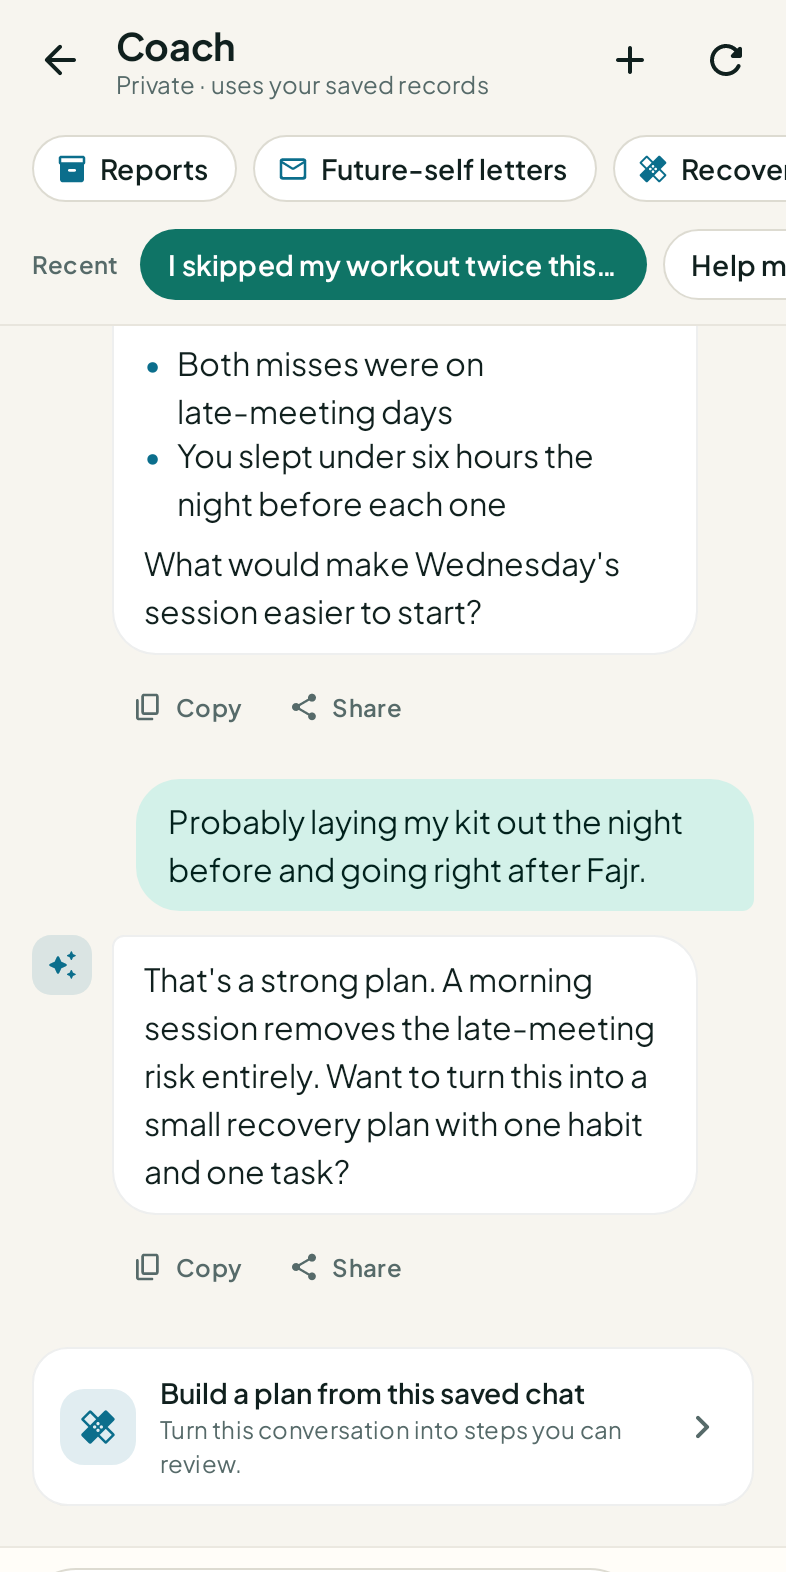
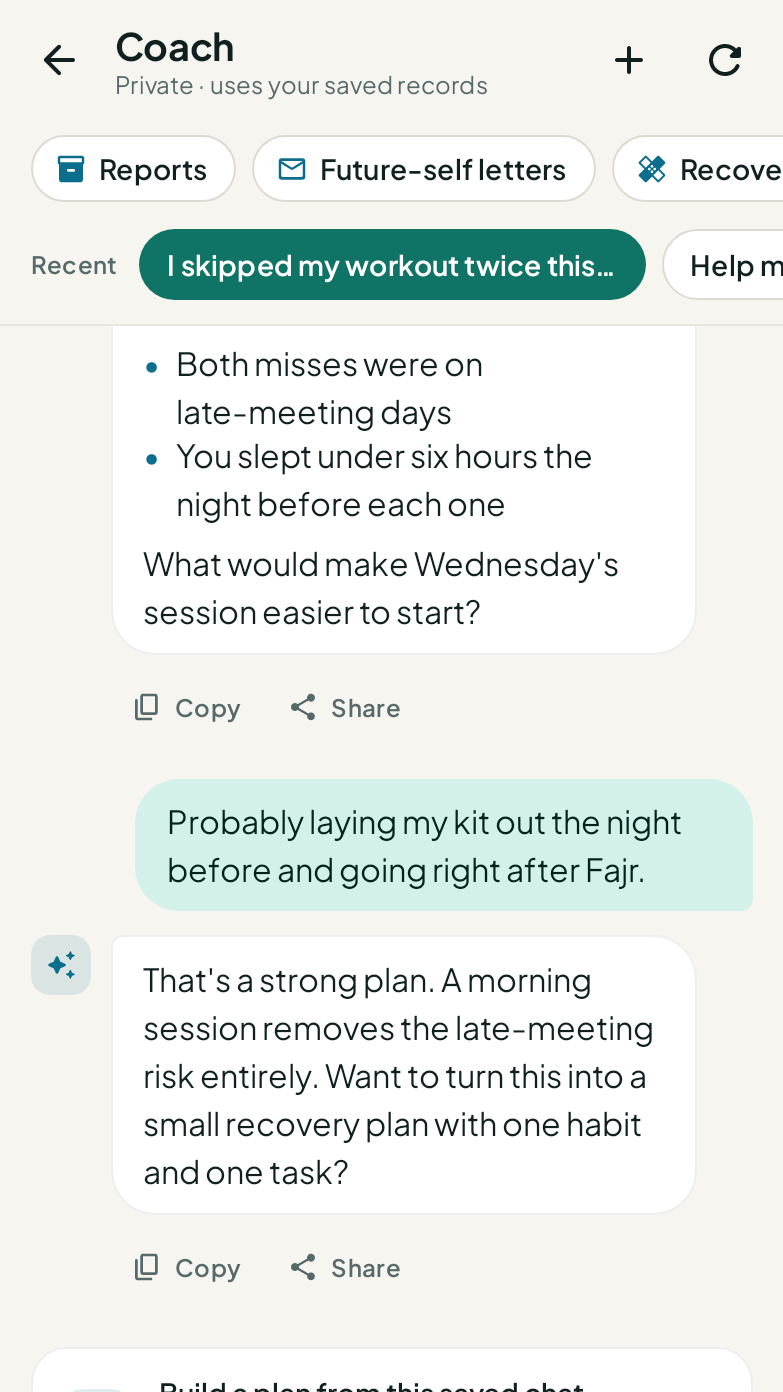
docs(android): 9:16 Play screenshots and submitted Data safety answers
Crop store screenshots to exactly 9:16 (783x1392), the shape Play accepts,
and record what was declared in Play Console: sign-in methods, no
advertising ID, ephemeral approximate location, religious beliefs as
optional personal info, and the closed test sent for review.

diff --git a/android/store/PUBLISHING.md b/android/store/PUBLISHING.md
@@ -50,6 +50,8 @@ The release is signed with an **upload key**. It is stored outside the repositor
   - The AI provider generates coach replies.
   - Aladhan calculates prayer times from the approximate location.
 - **Encrypted in transit:** Yes, HTTPS only.
+- **Account creation:** Username and password, and OAuth (Google sign-in).
+- **Advertising ID:** Not used. The release manifest has no `AD_ID` permission.
 - **Account deletion:** Users can request deletion in the app and at https://nafs-one.vercel.app/privacy. To delete on the web: sign in at https://nafs-one.vercel.app, then go to Profile → Delete account.
 
 Data types, all *collected*, *linked to the user*, *not used for ads*, and with the purpose **App functionality** (and **Account management** where it applies):
@@ -59,9 +61,9 @@ Data types, all *collected*, *linked to the user*, *not used for ads*, and with 
 | Personal info: name, email address, user IDs | Required |
 | Health and fitness: health info, fitness info | Optional |
 | Photos | Optional: avatar, challenge proof, log photos |
-| Approximate location | Optional, only for prayer times |
+| Approximate location | Optional, only for prayer times. Processed ephemerally: it is sent to Aladhan and cached encrypted on the phone, never stored on our servers |
 | App activity: other user-generated content (tasks, habits, goals, journals, coach chats) | Required for core features |
-| Other: religious practice, prayer logs in faith mode | Optional. Play has no exact category; describe it under "Other user-generated content" |
+| Personal info: political or religious beliefs (prayer logs in faith mode) | Optional |
 
 Not collected: precise location, contacts, messages, audio, files, calendar, financial info, web history, device IDs, crash logs or diagnostics.
 
@@ -70,6 +72,8 @@ Not collected: precise location, contacts, messages, audio, files, calendar, fin
 1. **Internal testing.** Go to Testing → Internal testing → Create release, upload `app-release.aab` and paste the release notes. Add your own email as a tester and install from the opt-in link.
 2. **Closed testing (required for new personal accounts).** Google requires a closed test with a minimum number of testers (currently 12) who stay opted in for at least 14 days before you can apply for production. Check the current numbers in Play Console. Invite friends or family by email list or Google Group.
 3. **Production.** After the closed test, apply for production access in the Dashboard, then promote the release. Review usually takes from a few hours to several days.
+
+**Status on 11 Oct 2026:** internal testing is live. The store listing, the app content declarations and a closed test were sent to Google for review. The closed test is Alpha: all countries, the `testers` email list (13 people) and release 2 (1.1.0). After the review passes, testers opt in from the closed test link and must stay opted in for 14 days. Then apply for production.
 
 ## Before each update
 

diff --git a/android/store/LISTING.md b/android/store/LISTING.md
@@ -75,7 +75,7 @@ NAFS works best with notifications and "Alarms & reminders" allowed, so prayer a
 |---|---|---|
 | App icon | 512 × 512 PNG | `app/build/outputs/store/icon-512.png` |
 | Feature graphic | 1024 × 500 PNG | `app/build/outputs/store/feature-graphic.png` |
-| Phone screenshots | 2 to 8, sides 320–3,840 px, no more than 2:1 | `store/screenshots/*.png` |
+| Phone screenshots | 2 to 8, exactly 9:16, sides 320–3,840 px | `store/screenshots/*.png` |
 
 ## Release notes for the first release (500 characters max)
 
